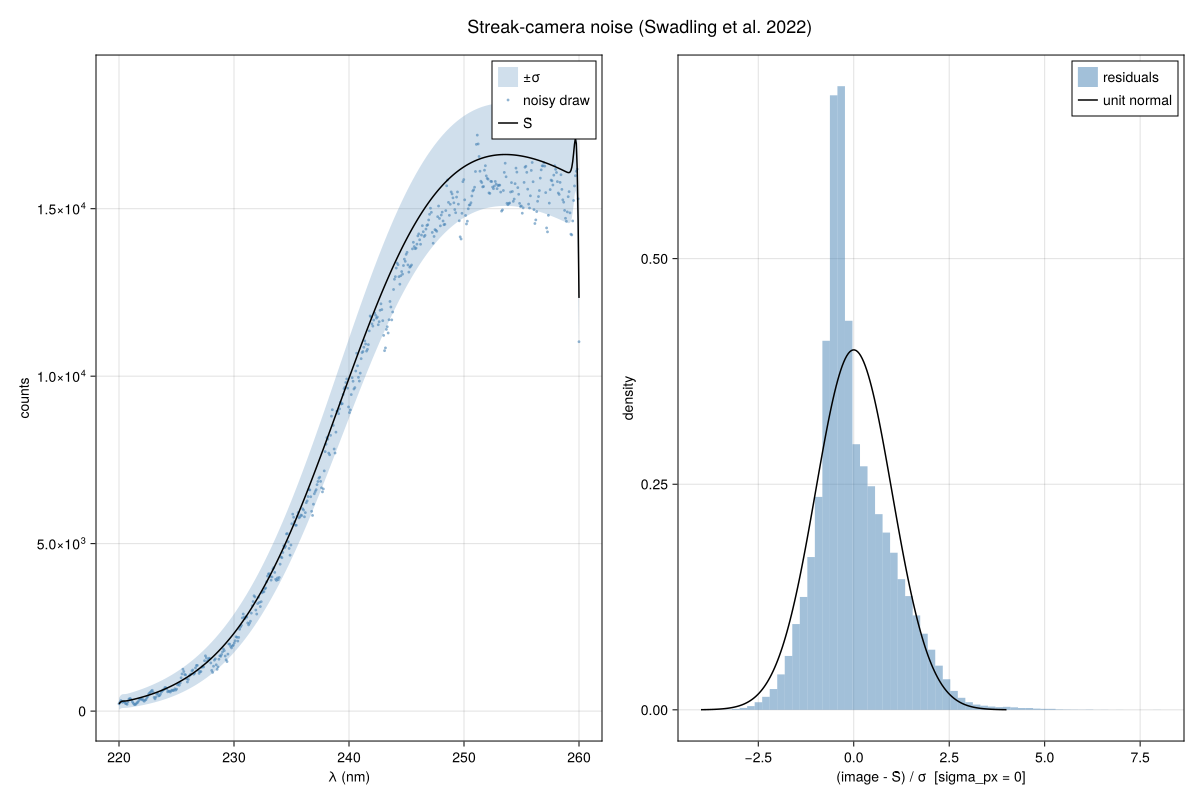
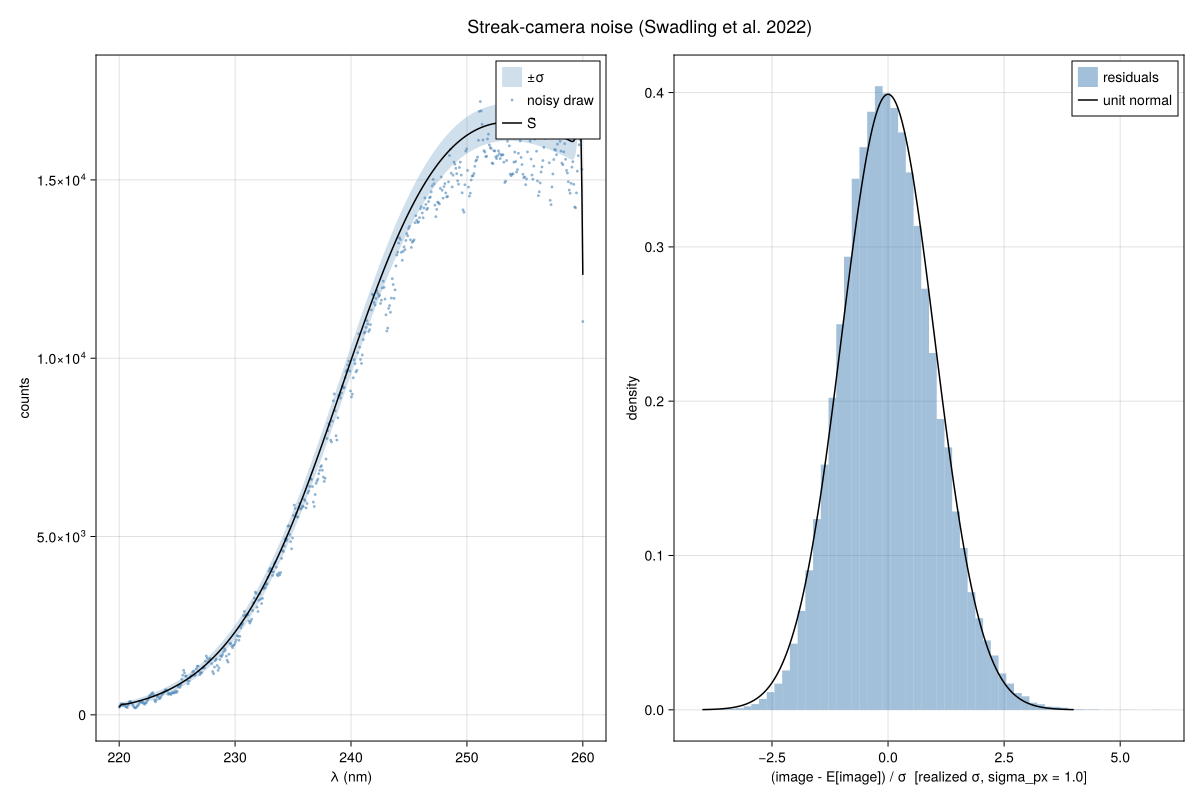
Step 4.B.1: the noise model's realized sigma
TS2 now fails (known, one m_e entry saturated at its bound in the staged
fit's EPW-only stage; Phase 4.B summary A14) and FR1 now passes; both
accepted by the user 2026-09-26 (spec D29).

diff --git a/docs/derivations/instrument.md b/docs/derivations/instrument.md
@@ -159,12 +159,35 @@ is not modelled. The point spread (`_point_spread`, step 5) uses the same column
 window and loses flux at the edges instead. The two differ only in the outermost `~8σ_px`
 pixels.
 
-**σ is from the expected signal, never the noisy one.** `sigma(model, expected)` is written
-against `measure(expt)`'s own output (or an externally supplied expectation); passing a
-*realised*, noisy streak gives that realisation's own sample σ, not the χ² weight — the
-docstring says this in one sentence, and it is why `synthesize` computes `sigma(model, Sbar)`
-from `Sbar = measure(expt)` in step 1, before any noise is drawn (step 7 returns it, written
-last for readability, but it is the expected-signal σ throughout).
+**σ is the realized per-pixel σ, from the expected signal** (Phase 4.B, OQ-40 option A, spec D8).
+The point spread (step 5) is linear, so a pixel's variance after it is its pre-spread variance
+propagated through the squared weights: with `V = S̄·G·F²` the pre-spread variance of independent
+pixels (Eq. 37) and `K_λ`, `K_t` the column-normalized Gaussian matrices of `_point_spread`,
+
+    σ² = (K_λ ∘ K_λ) · V · (K_t ∘ K_t)ᵀ + σ_RN²,
+
+`∘` the elementwise square and the read noise added after the spread, as step 6 adds it. At
+`sigma_px = 0` this is Eq. 40's σ bitwise. It is written against the **expected** signal,
+`measure(expt)` (or an externally supplied expectation): passing a *realised*, noisy streak gives
+that realisation's own σ, not the χ² weight. It is **diagonal-approximate**: the spread also
+correlates neighbouring pixels (Eq. 38), which is not modelled, exactly as the dewarp's σ is
+diagonal-approximate. **Consequence for averaging**: `average_regions` combines σ as for
+independent slices, so an average of n ≫ σ_px slices has its variance understated by up to
+1/Σ_b w_b² = 2√π σ_px (≈ 3.54 at `sigma_px = 1`; measured 3.36 at 32 slices per bin). Averaged
+fits of synthetic data therefore read χ²/n ≈ 3, not 1; the user decided on 2026-09-26 that this
+is reported and fixed later.
+
+**The mean's blur is not modelled** (the user, 2026-09-26: "not a big deal in the long run"). The
+data's mean is `E[image] = K_λ S̄ K_tᵀ`, and the forward model has no point spread, so a fit sees a
+mean blurred by one pixel in both directions. Its size against σ on the three example problems
+and the two-channel problem, measured once (Phase 4.B, chunk 3's report), is: `epw_ablation`
+(512 × 256) max 3.049 at pixel (511, 2), RMS 0.138; `iaw_multiflow` (512 × 256) max 1.165 at
+pixel (277, 256), RMS 0.052; `iaw_shock` (512 × 256) max 4.831 at pixel (271, 72), RMS 0.162;
+the two-channel problem's `epw` channel (256 × 1024) max 2.812 at pixel (256, 1), RMS 0.158; its
+`iaw` channel (256 × 960) max 1.008 at pixel (120, 959), RMS 0.046. A deck whose spectral and
+temporal IRFs span many pixels hides it; a small problem with no
+spectral IRF shows it (Phase 4.A: χ²/n 7.2 and a +200 eV `T_D` bias on 24 wavelengths). The
+fast fixtures therefore use `GaussianNoise`.
 
 **Reproducibility.** `synthesize` draws every pixel in fixed **column-major** order (wavelength
 fastest, then time) on a single thread, so one `rng` seed gives the same image regardless of
